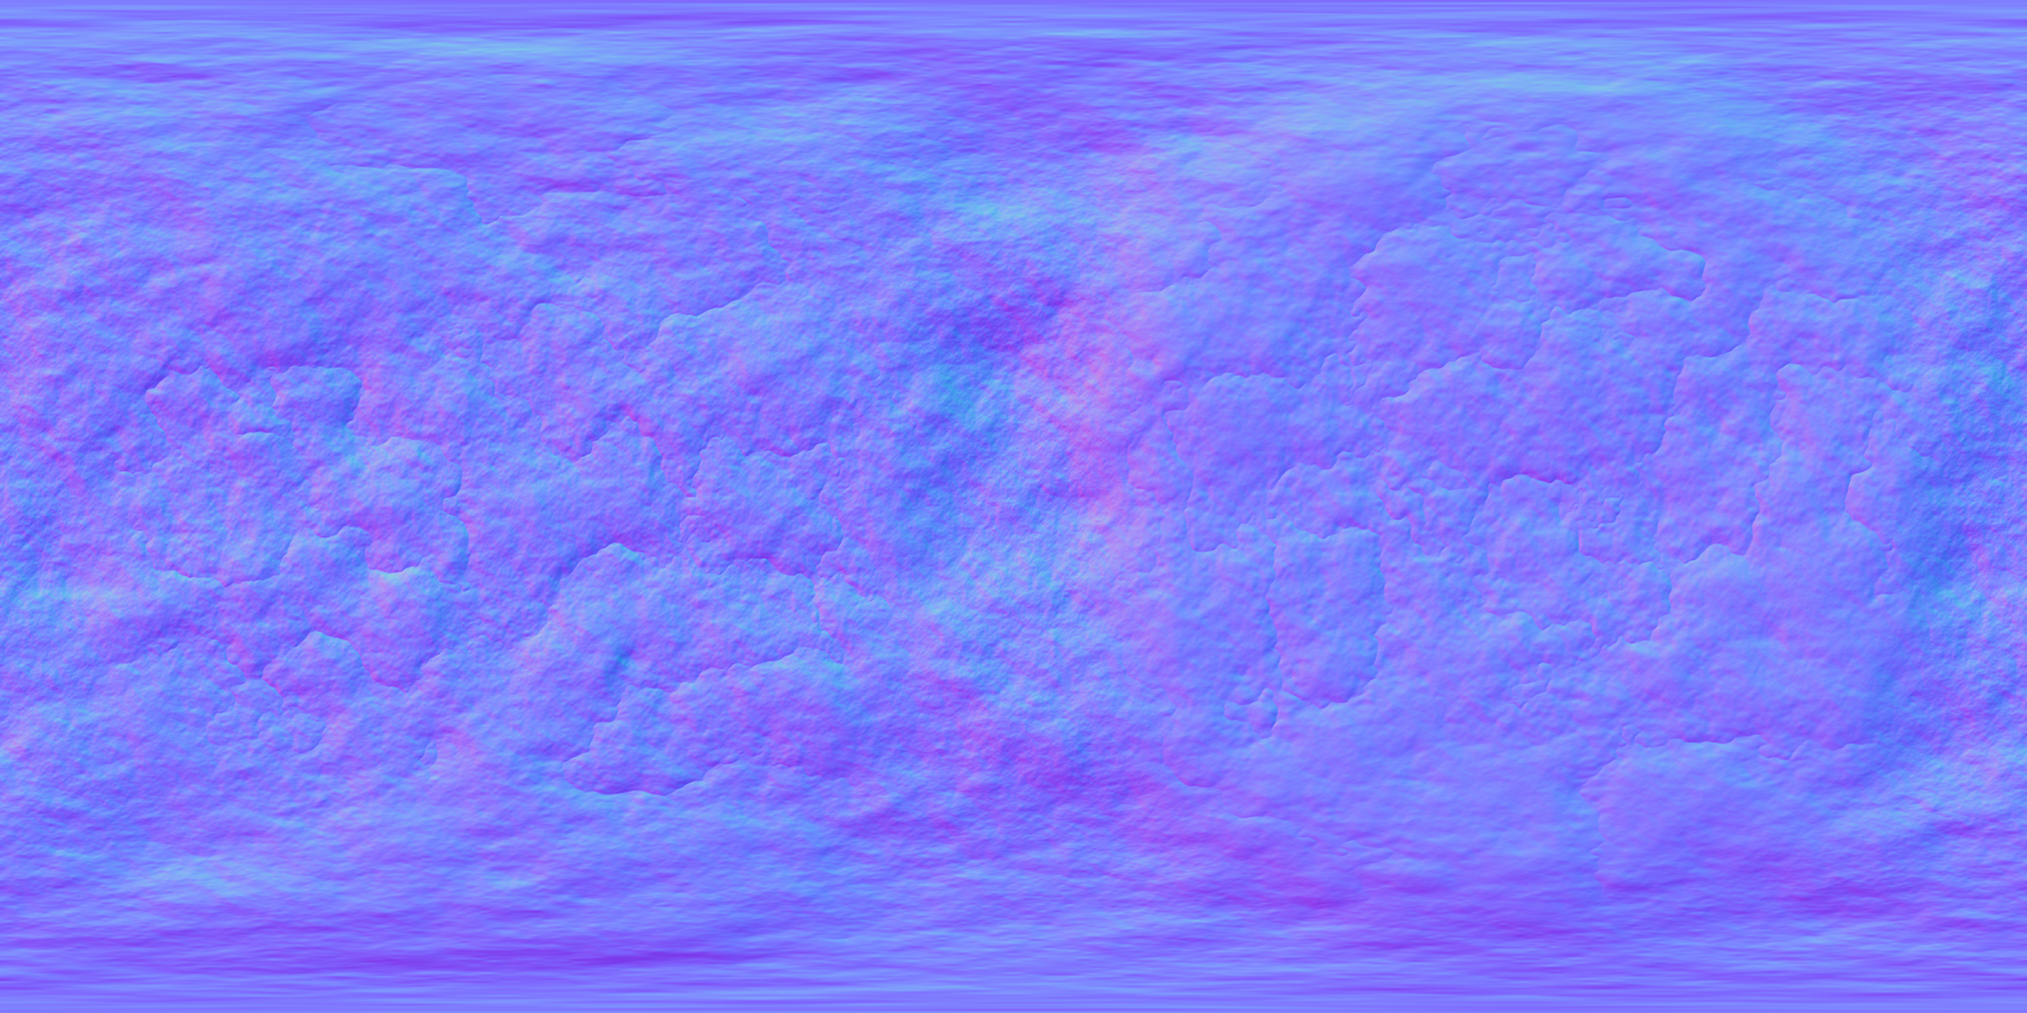
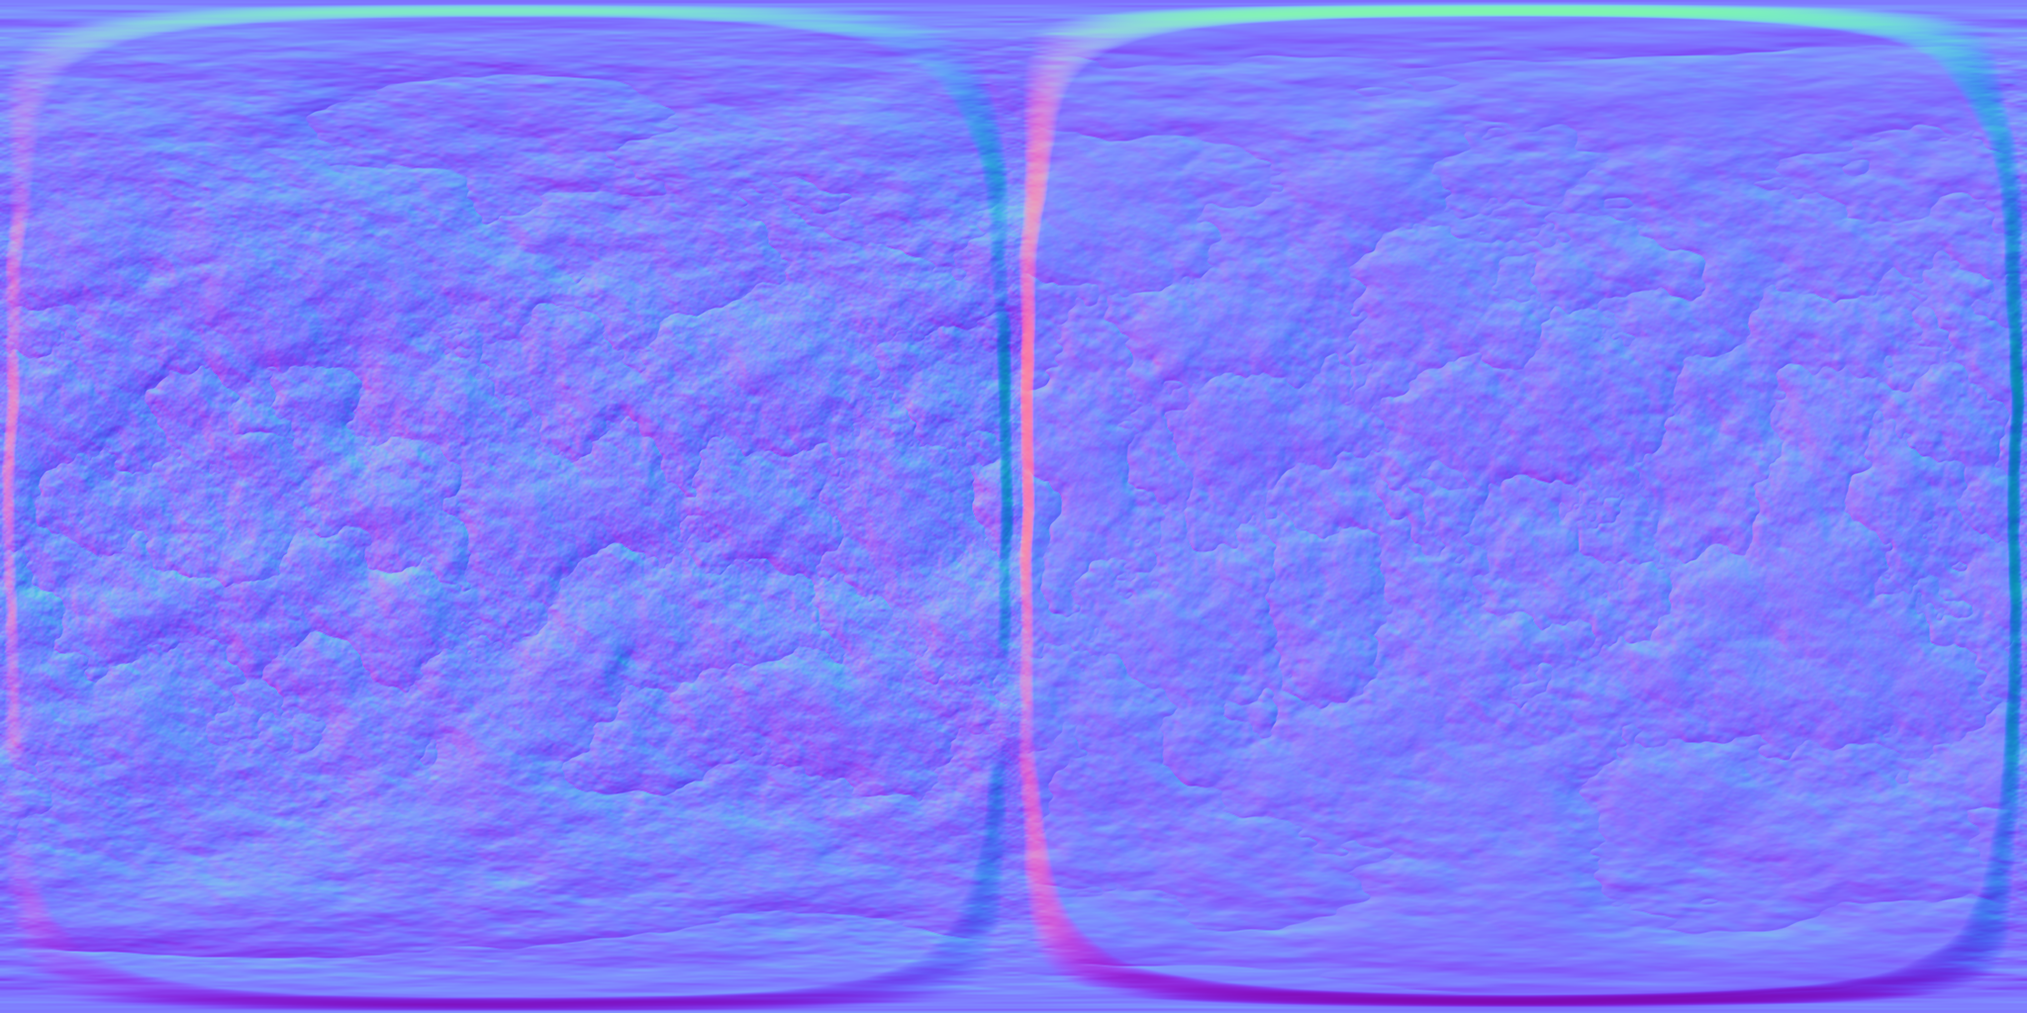
fix: vivid dark Cindra from-space art + thin sand seam (ci-fg6)
The star-map / from-space planet read too DULL. Make it vivid while
keeping the world DARK (the glow and shimmer are bright ACCENTS on a
dark base, not an overall brightening):

- Lava hemisphere GLOWS strongly: hotter dayside emission across the
  whole sunward face, a Standard (not AgX) view transform so the magma
  keeps its saturated orange/red, and a Fog-Glow bloom halo off the
  fire limb (bake-starmap.py) instead of flat matte peach.
- Ice hemisphere SHIMMERS cool blue: lifted icy-blue glints in the
  albedo + a visible frost-ridge self-glow, a glossier reflectivity
  floor and higher specular so the frozen vault glints, not flat navy.
  It stays the DARKEST face (guarded: ice self-glow < sandy seam).
- Orbital backdrop matched: emission_scalar 1.5 -> 2.4, specular
  0.6 -> 0.95 (space-appearance.lua) so the live view glows/shimmers
  like the baked sprite.
- THIN sandy terminator: the mayor's space-view refinement slims the
  sandy middle band ~10x (smoothstep 0.12..0.48 -> 0.013..0.053, warp
  0.14 -> 0.035). The disc now reads as mostly FIERY + ICY hemispheres
  with only a sliver of sand between them (~30% of the diameter down to
  ~3%). This is ART only (equirect maps -> baked sprite + backdrop); it
  does NOT touch the in-game mapgen zone widths (ci-da2).

Steady glow, no flare overlay on the space view (flares are a slow
in-world surface event, too slow to loop as a starmap animation).

Baked Cindra sprites (not Vulcanus placeholders) are wired via
[…]

Changed region(s): [[0.0, 0.0, 1.0, 1.0], [0.375, 0.125, 0.4375, 0.1562], [0.0312, 0.7812, 0.0625, 0.8438]]

diff --git a/scripts/bake-starmap.py b/scripts/bake-starmap.py
@@ -80,15 +80,20 @@ if "Emission Color" in bsdf.inputs:
 elif "Emission" in bsdf.inputs:
     links.new(tex_em.outputs["Color"], bsdf.inputs["Emission"])
 # Emission carries the molten dayside, the sandy-seam self-glow, and the icy
-# nightside shimmer -- strong enough to dominate the lit albedo.
-set_input(bsdf, "Emission Strength", 2.6)
+# nightside shimmer -- strong enough to dominate the lit albedo. Tuned against the
+# STANDARD view transform (see render settings, ci-fg6): Standard keeps the magma
+# emission a SATURATED glowing orange/red instead of AgX's washed-out pale peach,
+# so a modest strength already reads as a bright, radiant glow that the compositor
+# Glare (below) blooms into a halo.
+set_input(bsdf, "Emission Strength", 1.6)
 
 tex_refl = nodes.new("ShaderNodeTexImage")
 tex_refl.image = load("cindra-reflectivity.png", "Non-Color")
 # Reflectivity high (ice) -> low roughness (glossy); low (basalt) -> rough matte.
-# Remap into [0.30, 0.95]: icy nightside gets a cold sheen, molten dayside stays matte.
+# Remap into [0.14, 0.95]: icy nightside gets a bright cold SHEEN (glossier floor
+# than before, ci-fg6, so the frost ridges glint), molten dayside stays matte.
 rough = nodes.new("ShaderNodeMapRange")
-rough.inputs["To Min"].default_value = 0.30
+rough.inputs["To Min"].default_value = 0.14
 rough.inputs["To Max"].default_value = 0.95
 # MapRange inverts via To Min > To Max would flip; we want high refl -> low rough,
 # so feed (1 - refl) by swapping the From range instead.
@@ -96,7 +101,9 @@ rough.inputs["From Min"].default_value = 1.0
 rough.inputs["From Max"].default_value = 0.0
 links.new(tex_refl.outputs["Color"], rough.inputs["Value"])
 links.new(rough.outputs["Result"], bsdf.inputs["Roughness"])
-set_input(bsdf, "Specular IOR Level", 0.4)
+# Lift the specular so the icy nightside sheen catches the cold fill light more
+# strongly (a brighter blue glint on the frost ridges). ci-fg6.
+set_input(bsdf, "Specular IOR Level", 0.55)
 
 tex_n = nodes.new("ShaderNodeTexImage")
 tex_n.image = load("cindra-normal.png", "Non-Color")
@@ -129,11 +136,12 @@ scene.collection.objects.link(key_obj)
 # Point the sun toward +X (rays travel +X), so it comes FROM -X (the fire limb).
 key_obj.rotation_euler = (radians(90), radians(-8), radians(-90))
 
-# Cold blue fill from the ice (right, +X) side so the frozen hemisphere reads
-# blue rather than black; dim, so the dayside still dominates.
+# Cold blue fill from the ice (right, +X) side so the frozen hemisphere reads as
+# a SHIMMERY blue, not flat navy (ci-fg6): brighter and bluer than before so the
+# glossy frost ridges glint. Still below the hot key so the dayside dominates.
 fill = bpy.data.lights.new("fill", "SUN")
-fill.energy = 0.7
-fill.color = (0.45, 0.62, 1.0)
+fill.energy = 1.4
+fill.color = (0.40, 0.60, 1.0)
 fill.angle = radians(8)
 fill_obj = bpy.data.objects.new("fill", fill)
 scene.collection.objects.link(fill_obj)
@@ -144,7 +152,7 @@ fill_obj.rotation_euler = (radians(90), radians(8), radians(90))
 # whose normal faces the camera -- is lit head-on instead of only grazed by the
 # two limb suns. Warm-neutral and modest so the molten emission still dominates.
 front = bpy.data.lights.new("front", "SUN")
-front.energy = 1.4
+front.energy = 0.8
 front.color = (1.0, 0.94, 0.82)
 front.angle = radians(12)
 front_obj = bpy.data.objects.new("front", front)
@@ -171,6 +179,84 @@ scene.render.resolution_x = 1024
 scene.render.resolution_y = 1024
 scene.render.image_settings.file_format = "PNG"
 scene.render.image_settings.color_mode = "RGBA"
+# View transform: STANDARD, not the default AgX (ci-fg6). AgX aggressively
+# desaturates bright pixels toward white, which turned the molten emission into a
+# dull pale peach ("too dull"). Standard preserves the hot orange/red saturation
+# so the lava limb reads as GLOWING magma and the icy sheen stays a clean blue.
+scene.view_settings.view_transform = "Standard"
 scene.render.filepath = OUT
+
+# --- Compositor: bloom the molten limb (ci-fg6) ----------------------------
+# The bare emission read too flat ("dull"). A Glare (Fog Glow) node bleeds the
+# hot, white-blown lava emission into a radiant halo, so the fire limb GLOWS
+# instead of sitting as matte peach. Threshold ~0.7 so only the genuinely hot
+# (near-white) magma blooms; the sandy seam and dim ice do not wash out.
+#
+# The compositor API moved between Blender releases (4.x: scene.node_tree with a
+# Composite node + glare_type attr / FOG_GLOW enum; 5.x: scene.compositing_node_
+# group with a Group Output + socket-driven "Type" / "Fog Glow" enum). We build
+# for both and swallow failures: if a future Blender changes the API again, the
+# bake still succeeds on the strong raw emission alone -- just without the halo.
+def set_glare(glare):
+    """Configure a Glare node as a Fog-Glow bloom across Blender 4.x/5.x."""
+    # 5.x: menu SOCKETS with display-name enums.
+    for sock, val in (("Type", "Fog Glow"), ("Quality", "High"),
+                      ("Threshold", 0.7), ("Size", 0.6)):
+        if sock in glare.inputs:
+            try:
+                glare.inputs[sock].default_value = val
+            except Exception:
+                pass
+    # 4.x: node ATTRIBUTES with UPPER_CASE enums.
+    if hasattr(glare, "glare_type"):
+        glare.glare_type = "FOG_GLOW"
+    if hasattr(glare, "quality"):
+        glare.quality = "HIGH"
+    if hasattr(glare, "threshold"):
+        glare.threshold = 0.7
+    if hasattr(glare, "mix"):
+        glare.mix = 0.15
+    if hasattr(glare, "size"):
+        try:
+            glare.size = 8   # 4.x FOG_GLOW size is an int 6..9
+        except Exception:
+            pass
+
+
+def add_bloom():
+    if hasattr(scene, "compositing_node_group"):
+        # Blender 5.x: the scene compositor is a node group (RLayers -> Glare ->
+        # Group Output), assigned to scene.compositing_node_group.
+        ng = bpy.data.node_groups.new("cindra_comp", "CompositorNodeTree")
+        ng.interface.new_socket("Image", in_out="OUTPUT", socket_type="NodeSocketColor")
+        rl = ng.nodes.new("CompositorNodeRLayers")
+        glare = ng.nodes.new("CompositorNodeGlare")
+        set_glare(glare)
+        gout = ng.nodes.new("NodeGroupOutput")
+        ng.links.new(rl.outputs["Image"], glare.inputs["Image"])
+        ng.links.new(glare.outputs["Image"], gout.inputs["Image"])
+        scene.compositing_node_group = ng
+    else:
+        # Blender 4.x: RLayers -> Glare -> Composite on scene.node_tree.
+        scene.use_nodes = True
+        ct = scene.node_tree
+        for n in list(ct.nodes):
+            ct.nodes.remove(n)
+        rl = ct.nodes.new("CompositorNodeRLayers")
+        glare = ct.nodes.new("CompositorNodeGlare")
+        set_glare(glare)
+        comp = ct.nodes.new("CompositorNodeComposite")
+        ct.links.new(rl.outputs["Image"], glare.inputs["Image"])
+        ct.links.new(glare.outputs["Image"], comp.inputs["Image"])
+        if "Alpha" in rl.outputs and "Alpha" in comp.inputs:
+            ct.links.new(rl.outputs["Alpha"], comp.inputs["Alpha"])
+
+
+try:
+    add_bloom()
+    print("compositor bloom (Glare/Fog Glow) enabled")
+except Exception as e:
+    print("WARNING: compositor bloom unavailable, baking raw emission:", e)
+
 bpy.ops.render.render(write_still=True)
 print("baked star-map sprite ->", OUT)

diff --git a/scripts/gen-planet-maps.py b/scripts/gen-planet-maps.py
@@ -150,14 +150,25 @@ def generate_maps(W=W, H=H, seed=SEED):
     # (ice). A little noise warps the boundary so the seam is a ragged coastline.
     sol = (-cy).reshape(H, W)
     warp = (field(seed + 400, base_freq=3.0, octaves=4) - 0.5)
-    sol = np.clip(sol + 0.14 * warp, -1.0, 1.0)
+    # Warp amplitude scaled down with the slimmed band (ci-fg6): the seam is now a
+    # THIN terminator, so a large warp would scatter sand blobs deep into the
+    # hemispheres. Keep it comparable to the band half-width for a ragged-but-thin
+    # coastline.
+    sol = np.clip(sol + 0.035 * warp, -1.0, 1.0)
 
-    # Wide-enough ribbon that the sandy seam reads as the middle THIRD of the
-    # presented disc (see the sol->screen-x note in the header), while the
-    # hemispheres still reach full fire/ice strength well before the limb.
-    day = smoothstep(0.12, 0.48, sol)                       # molten hemisphere
-    night = smoothstep(0.12, 0.48, -sol)                    # frozen hemisphere
-    ribbon = np.clip(1.0 - day - night, 0.0, 1.0)           # sandy seam
+    # THIN sandy terminator (ci-fg6): the mayor's space-view refinement slims the
+    # sandy middle band ~10x, so the planet reads as mostly FIERY hemisphere + ICY
+    # hemisphere with only a thin sand seam between them (consistent with tidal
+    # lock: fire limb -> thin sand terminator -> ice limb). The old band was the
+    # middle THIRD of the disc (smoothstep 0.12..0.48, half-width ~0.30 in sol,
+    # which maps ~linearly to screen-x; see the header). Here the smoothstep
+    # midpoint drops to ~0.033 (half-width ~10x smaller), so the hemispheres reach
+    # full fire/ice strength almost to the centre with only a sliver of sand. This
+    # is ART only (equirect maps -> baked sprite + orbital backdrop); it does NOT
+    # touch the in-game mapgen zone widths (planet.lua / ribbon.lua, ci-da2).
+    day = smoothstep(0.013, 0.053, sol)                    # molten hemisphere
+    night = smoothstep(0.013, 0.053, -sol)                 # frozen hemisphere
+    ribbon = np.clip(1.0 - day - night, 0.0, 1.0)          # thin sandy seam
     heat = np.clip(sol, 0.0, 1.0)                           # 0..1 toward substellar
     cold = np.clip(-sol, 0.0, 1.0)                          # 0..1 toward antistellar
 
@@ -176,21 +187,25 @@ def generate_maps(W=W, H=H, seed=SEED):
     D, N, R = day[..., None], night[..., None], ribbon[..., None]
 
     # -- Albedo (RGBA) -------------------------------------------------------
-    # Dayside: a warm ember crust so the lava reads as molten rock even where the
-    # emission is masked; bright lava veins push it toward glowing orange.
-    day_v = 0.22 + 0.28 * height + 0.50 * lava
-    day_rgb = np.stack([day_v * 1.15, day_v * 0.50, day_v * 0.18], -1)     # molten orange-red
+    # Dayside: a hot ember crust so the lava reads as radiant molten rock even
+    # where the emission is masked; bright lava veins push it toward a glowing
+    # orange. Brighter + more saturated than the old dull-peach crust (ci-fg6) so
+    # the fire limb reads as GLOWING lava, not matte rock.
+    day_v = 0.30 + 0.30 * height + 0.55 * lava
+    day_rgb = np.stack([day_v * 1.35, day_v * 0.52, day_v * 0.14], -1)     # molten orange-red
     # Ribbon: SANDY YELLOW, the survivable seam. Bright, warm, gently duned by
     # the height field so it is not a flat wash.
     sand = np.array([0.84, 0.68, 0.40])
     rib_v = 0.82 + 0.22 * (height - 0.5) + 0.10 * (detail - 0.5)
     rib_rgb = sand[None, None, :] * np.clip(rib_v, 0.4, 1.15)[..., None]
-    # Nightside: the DARKEST zone. A near-black deep-blue base with sparse
-    # icy-blue glints where frost ridges catch the last starlight.
-    night_base = np.array([0.015, 0.025, 0.055])
+    # Nightside: the DARKEST zone, but no longer flat navy (ci-fg6). A near-black
+    # deep-blue base with SHIMMERING icy-blue glints where frost ridges catch the
+    # last starlight -- brighter, cooler and more plentiful glints so the ice limb
+    # reads as a shimmery blue frozen vault, while the base stays the darkest zone.
+    night_base = np.array([0.015, 0.030, 0.075])
     glint = frost * (0.35 + 0.65 * height)
-    glint_col = np.array([0.55, 0.76, 1.00])
-    ice_rgb = night_base[None, None, :] + 0.55 * glint[..., None] * glint_col[None, None, :]
+    glint_col = np.array([0.46, 0.74, 1.00])
+    ice_rgb = night_base[None, None, :] + 0.95 * glint[..., None] * glint_col[None, None, :]
 
     albedo = day_rgb * D + ice_rgb * N + rib_rgb * R
     alpha = np.full((H, W), 255.0)
@@ -198,11 +213,15 @@ def generate_maps(W=W, H=H, seed=SEED):
 
     # -- Emission (RGBA): the identity --------------------------------------
     # Molten dayside glow, hottest (white/yellow) at the sub-stellar point,
-    # cooling to orange and deep red toward the terminator.
-    ocean = np.clip(day * (0.30 + 0.70 * heat), 0, 1)
-    veins = np.clip(lava * day * (0.45 + 0.95 * heat), 0, 1)
+    # cooling to orange and deep red toward the terminator. Pushed hotter across
+    # the whole hemisphere (ci-fg6) so the fire limb reads as a STRONGLY GLOWING
+    # magma ocean, not a dull ember: the base ocean glow is lifted and the veins
+    # burn brighter, so far more of the dayside saturates toward white-hot (which
+    # the bake's Glare node then blooms).
+    ocean = np.clip(day * (0.48 + 0.62 * heat), 0, 1)
+    veins = np.clip(lava * day * (0.55 + 1.05 * heat), 0, 1)
     pools = np.clip((0.55 - height) / 0.55, 0, 1) * day
-    glow = np.clip(0.60 * ocean + 1.10 * veins + 0.35 * pools * heat, 0, 1)
+    glow = np.clip(0.90 * ocean + 1.30 * veins + 0.45 * pools * heat, 0, 1)
 
     hot_white = np.array([1.00, 0.93, 0.72])       # sub-stellar white-hot (only the peak)
     orange = np.array([1.00, 0.42, 0.06])          # magma orange (the dayside body)
@@ -220,10 +239,12 @@ def generate_maps(W=W, H=H, seed=SEED):
     sand_em = np.array([1.00, 0.80, 0.46])
     em += np.clip(rib_glow, 0, 1)[..., None] * sand_em[None, None, :]
 
-    # Nightside: faint SHIMMERING ICY-BLUE glinting through the dark -- a thin
-    # self-glow on the frost ridges (kept low so the vault stays the darkest zone).
-    shimmer = np.clip(frost * night, 0, 1) * 0.11
-    shimmer_col = np.array([0.35, 0.66, 1.00])
+    # Nightside: SHIMMERING ICY-BLUE glinting through the dark -- a self-glow on
+    # the frost ridges, lifted (ci-fg6) so the ice limb visibly shimmers blue,
+    # yet still kept below the sandy seam's glow so the vault stays the darkest,
+    # dimmest-lit zone (the test guards ice_emax < seam_emax).
+    shimmer = np.clip(frost * night, 0, 1) * 0.24
+    shimmer_col = np.array([0.30, 0.64, 1.00])
     em += shimmer[..., None] * shimmer_col[None, None, :]
 
     em = np.clip(em, 0, 1)

diff --git a/mods/cindra/unit-tests/test_planet_maps.py b/mods/cindra/unit-tests/test_planet_maps.py
@@ -67,6 +67,26 @@ check("each zone is present (fire / sandy seam / ice)",
       fire.sum() > 50 and seam.sum() > 50 and ice.sum() > 50,
       f"fire={int(fire.sum())} seam={int(seam.sum())} ice={int(ice.sum())}")
 
+# --- THIN SANDY TERMINATOR (ci-fg6 space-view refinement) -------------------
+# The mayor slimmed the sandy middle band ~10x: the disc must read as mostly
+# FIERY hemisphere + ICY hemisphere with only a THIN sand seam between them. The
+# old band was the middle ~third of the disc (screen width ~0.30R); the new one
+# is a sliver (~0.03R, ~10x thinner). Guard both the total coverage and the
+# on-disc equatorial width so a later tweak cannot quietly widen it back.
+day_m, night_m, ribbon_m = masks["day"], masks["night"], masks["ribbon"]
+seam_frac = float(ribbon_m.sum() / (day_m.sum() + night_m.sum()))
+check("sandy seam is THIN vs the hemispheres (soft-mask sum < 0.20 of fire+ice)",
+      seam_frac < 0.20,
+      f"seam/(fire+ice)={seam_frac:.3f}")
+# Equatorial screen width: along the equator (lat=0 row) sol ~ -sin(lon) ~ screen-x
+# near the centre, so the fraction of the row that is sandy tracks the on-disc
+# band width. Old band ~0.15 of the equirect row; the slimmed seam is well under.
+eq_row = ribbon_m[ribbon_m.shape[0] // 2]
+eq_seam_frac = float((eq_row > 0.5).mean())
+check("sandy terminator is a thin sliver on the disc (equator width < 0.06)",
+      eq_seam_frac < 0.06,
+      f"equator seam width frac={eq_seam_frac:.3f}")
+
 # --- SANDY SEAM: bright, warm, and self-lit (THE black-centre fix) ----------
 seam_alb = rgb_mean(albedo, seam)
 check("ribbon albedo is SANDY YELLOW (R>G>B, warm)",
@@ -88,8 +108,11 @@ check("ribbon emission is warm sandy (R>=G>=B)",
 # --- FIRE HEMISPHERE: radiant molten glow -----------------------------------
 fire_em = rgb_mean(emission, fire)
 fire_emax = float(np.median(emax[fire]))
-check("dayside is a strong warm emission (median emax > 110)",
-      fire_emax > 110,
+# ci-fg6: the fire limb must GLOW STRONGLY, not read as dull peach. Most of the
+# dayside now blows out toward white-hot (median emax near saturation), which the
+# bake's Glare node blooms into a radiant halo.
+check("dayside is a STRONGLY GLOWING emission (median emax > 200)",
+      fire_emax > 200,
       f"median emax={fire_emax:.1f}")
 check("dayside emission is warm (R dominant, R>B)",
       fire_em[0] > fire_em[2],
@@ -107,10 +130,21 @@ check("nightside is the DARKEST albedo (darker than seam AND fire)",
       f"ice={ice_bright:.1f} seam={seam_bright:.1f} fire={fire_bright:.1f}")
 
 ice_alb = rgb_mean(albedo, ice)
-check("nightside albedo is icy-blue biased (B>R)",
-      ice_alb[2] > ice_alb[0],
-      f"albedo={ice_alb.round(1)}")
+# ci-fg6: not just B>R, but STRONGLY blue -- a shimmery icy sheen, not flat navy.
+check("nightside albedo is STRONGLY icy-blue biased (B > 1.5*R)",
+      ice_alb[2] > 1.5 * ice_alb[0],
+      f"albedo={ice_alb.round(1)}  B/R={ice_alb[2] / max(ice_alb[0], 1e-6):.2f}")
 ice_emax = float(np.median(emax[ice]))
+# The nightside now carries a VISIBLE icy-blue shimmer self-glow (lifted from the
+# old barely-there 0.11 factor, ci-fg6) -- but still dimmer than the sandy seam,
+# so the frozen vault stays the darkest, dimmest-lit zone.
+check("nightside shimmer is VISIBLE (median emax > 24)",
+      ice_emax > 24,
+      f"ice emax={ice_emax:.1f}")
+ice_em = rgb_mean(emission, ice)
+check("nightside shimmer is icy-blue (B dominant, B>R)",
+      ice_em[2] > ice_em[0],
+      f"emission={ice_em.round(1)}")
 check("nightside stays dark: dimmer self-glow than the sandy seam",
       ice_emax < seam_emax,
       f"ice={ice_emax:.1f} seam={seam_emax:.1f}")

diff --git a/PLAYTEST.md b/PLAYTEST.md
@@ -63,8 +63,27 @@ CURRENT `(tune)` values on `main`; the balance pass (ci-63d) will move them.
   nightside); it does NOT rotate (tidally locked) while the terminator steam band
   and the flares off the fire limb animate in place. The baked star-map sprite
   split is verified off-game (`unit-tests/test_planet_maps.py`: centre ~RGB
-  [139,108,61] sandy, fire limb ~[244,168,137], ice limb ~[40,57,77]); only the
-  LIVE orbital backdrop is the playtest.
+  [185,150,88] sandy, fire limb ~[189,73,20] molten orange, ice limb ~[57,93,135]
+  icy blue); only the LIVE orbital backdrop is the playtest.
+
+- [ ] **[LANDED] Planet from-space graphic is VIVID, not dull (ci-fg6).** The
+  earlier bake read flat: a dull matte peach dayside and a flat navy nightside.
+  *Repro:* open the star-map and the orbital-approach view of Cindra (`./play.sh`,
+  then navigate/travel to it). *Look for:* the LAVA hemisphere (left limb, sunward
+  per tidal lock) reads as **strongly GLOWING** radiant molten orange/red with a
+  soft bloom halo bleeding off the fire limb and bright magma veins; the ICE
+  hemisphere (right limb) reads as a **shimmery cool BLUE** frozen vault with icy
+  glints catching the light, NOT flat grey/navy; the sandy terminator band down
+  the centre stays clearly lit. Fire faces the star, ice faces away
+  (orientation preserved). *Fallback:* the baked star-map sprite is verified
+  off-game (`unit-tests/test_planet_maps.py` guards the strongly-glowing dayside
+  and the visible icy-blue shimmer; `unit-tests/test_space_appearance.lua` guards
+  the orbital backdrop's boosted emission_scalar + specular sheen). This entry is
+  only the "the glow/shimmer looks vivid on the live orbital backdrop, bloom and
+  all" confirmation a still-image test cannot judge. Re-bake via
+  `scripts/render-planet.sh` (tunes: gen-planet-maps.py emission/albedo,
+  bake-starmap.py Standard view transform + Emission Strength + Glare bloom +
+  cold-blue fill, space-appearance.lua emission_scalar/specular_intensity).
 
 - [ ] **[LANDED] Mod thumbnail reads as Cindra (ci-06j).** *Repro:* open the
   in-game mod manager (or the mod portal listing) and find **Cindra** by **Vuza**.
